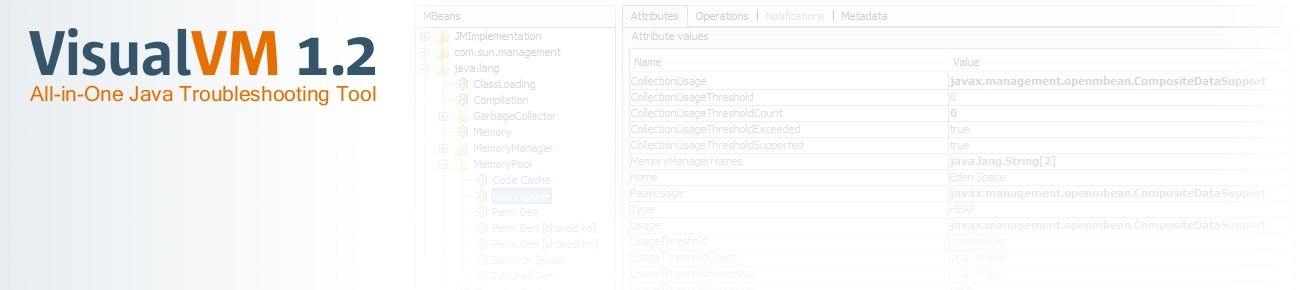
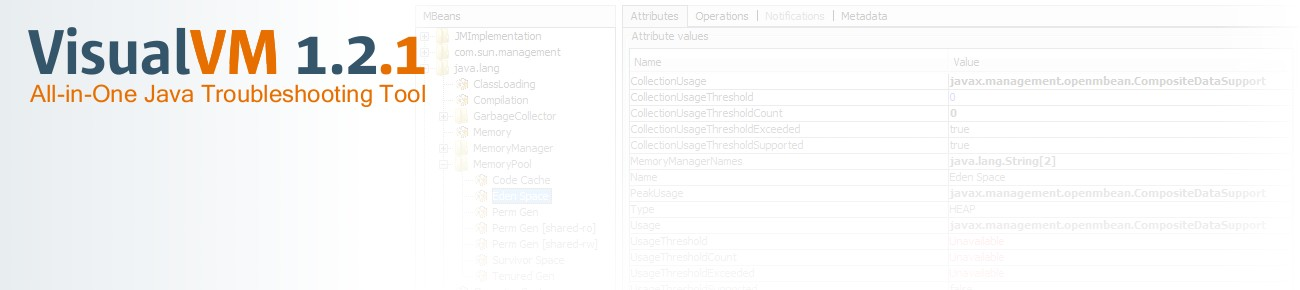
Releasing VisualVM 1.2.1

Changed region(s): [[0.0, 0.0931, 0.3385, 0.3724]]

diff --git a/trunk/www/relnotes12.html b/trunk/www/relnotes12.html
@@ -1,7 +1,7 @@
 <html>
 <head>
     
-    <title>VisualVM 1.2.1 Release Notes</title>
+    <title>VisualVM 1.2 Release Notes</title>
     
     <style>            
             
@@ -42,14 +42,14 @@
     <div id="contents_contents">
         <div id="contents_main">
             
-            <h1>VisualVM 1.2.1 Release Notes</h1>
+            <h1>VisualVM 1.2 Release Notes</h1>
             
             <p>
                 VisualVM is a visual tool integrating several commandline JDK tools and lightweight profiling capabilities. Designed for both production and development time use, it further enhances the capability of monitoring and performance analysis for the Java SE platform.
             </p>
             
             <p style="margin-bottom: 15px;">
-                VisualVM 1.2.1 is a bugfix release based on VisualVM 1.2. See the <a href="#changes">Changes In 1.2.1</a> section for list of changes and bugfixes since the VisualVM 1.2.
+                VisualVM 1.2 is a stable release following after VisualVM 1.1.1. See the <a href="#changes">Changes In 1.2</a> section for list of changes and bugfixes since the VisualVM 1.1.1.
                 See the <a href="releases.html">Releases Overview</a> page for detailed overview of all VisualVM and Java VisualVM releases.
             </p>
             
@@ -98,60 +98,8 @@
             </div>
             
             <a name="changes"></a>
-            <h3>Changes In 1.2.1</h3>
-            <div>                
-                <p style="margin-top: 5px; margin-bottom: 10px;">
-                    <b>Fixed bugs:</b><br>
-                    <ul>
-                        <li><a href="https://visualvm.dev.java.net/issues/show_bug.cgi?id=333">Issue 333</a>: HeapWalker in VisualVM doesn't work with JDK 6 Update 17+
-                        </li>
-
-                        <li><a href="https://visualvm.dev.java.net/issues/show_bug.cgi?id=327">Issue 327</a>: Maximum value in Monitor charts is Integer.MAX_VALUE
-                        </li>
-
-                        <li><a href="https://visualvm.dev.java.net/issues/show_bug.cgi?id=332">Issue 332</a>: NPE in VisualVM-Sampler
-                        </li>
-                    </ul>
-                </p>
-            </div>
-            
-            <a name="known_problems"></a>
-            <h3>Known Problems</h3>
-            <div>                
-                <ul>
-                    <li><a href="https://visualvm.dev.java.net/issues/show_bug.cgi?id=224">Issue 224</a>: Cannot memory profile JBoss AS 4.2.3.GA
-                    </li>
-
-                    <li><a href="https://visualvm.dev.java.net/issues/show_bug.cgi?id=148">Issue 148</a>: VisualVM hangs when lost remote connection
-                    </li>
-
-                    <li><a href="https://visualvm.dev.java.net/issues/show_bug.cgi?id=120">Issue 120</a>: JMX application datasource cannot be reused on application restart
-                    </li>
-                    
-                    <li><a href="https://visualvm.dev.java.net/issues/show_bug.cgi?id=72">Issue 72</a>: Running application sometimes not recognized
-                    </li>
-                </ul>
-
-                <p>
-                    <b>Warning:</b> due to a JDK bug taking heap dump may crash the target JVM if it's running JDK 6 Update 16+ using Concurrent Mark Sweep garbage collector (CMS). A workaround is to use a different GC (for example using <code>-XX:+UseParallelGC</code>). Similar problem seems to affect also the JDK 7 devbuilds.
-                </p>
-                
-                <p style="margin-bottom: 15px;">To view all known problems please use this <a href="https://visualvm.dev.java.net/issues/buglist.cgi?Submit+query=Submit+query&issue_type=DEFECT&component=visualvm&subcomponent=code&issue_status=NEW&issue_status=STARTED&issue_status=REOPENED&email1=&emailtype1=exact&emailassigned_to1=1&email2=&emailtype2=exact&emailreporter2=1&issueidtype=include&issue_id=&changedin=&votes=&chfieldfrom=&chfieldto=Now&chfieldvalue=&short_desc=&short_desc_type=fulltext&long_desc=&long_desc_type=fulltext&issue_file_loc=&issue_file_loc_type=fulltext&status_whiteboard=&status_whiteboard_type=fulltext&field0-0-0=noop&type0-0-0=noop&value0-0-0=&cmdtype=doit&newqueryname=&order=Reuse+same+sort+as+last+time">IssueTracker query</a>.
-                </p>
-            </div>
-
-            <br>
-            <hr>
-            <hr>
-            <br>
-            <br>
-
-            <a name="changeshistory"></a>
-            <h2>History of Changes</h2>
-            <br>
-
             <h3>Changes In 1.2</h3>
-            <div>
+            <div>                
                 <p style="margin-top: 5px;">
                     <b>Features and enhancements:</b><br>
                     <ul>
@@ -256,14 +204,55 @@
 
                         <li>Compatible: <code>com.sun.tools.visualvm.tools.jvmstat.JvmstatModel.getConnectionId()</code> added
                         </li>
-
+                        
                     </ul>
                 </p>
-
+                
                 <p style="margin-bottom: 10px;">
                     <b>Fixed bugs:</b> <a href="https://visualvm.dev.java.net/issues/buglist.cgi?Submit+query=Submit+query&issue_type=DEFECT&component=visualvm&resolution=FIXED&target_milestone=1.2&email1=&emailtype1=exact&emailassigned_to1=1&email2=&emailtype2=exact&emailreporter2=1&issueidtype=include&issue_id=&changedin=&votes=&chfield=creation_ts&chfieldfrom=&chfieldto=Now&chfieldvalue=&short_desc=&short_desc_type=fulltext&long_desc=&long_desc_type=fulltext&issue_file_loc=&issue_file_loc_type=fulltext&status_whiteboard=&status_whiteboard_type=fulltext&field0-0-0=noop&type0-0-0=noop&value0-0-0=&cmdtype=doit&order=Reuse+same+sort+as+last+time">IssueTracker query</a>.
                 </p>
             </div>
+            
+            <a name="known_problems"></a>
+            <h3>Known Problems</h3>
+            <div>                
+                <ul>
+                    <li><a href="https://visualvm.dev.java.net/issues/show_bug.cgi?id=333">Issue 333</a>: HeapWalker in VisualVM doesn't work with JDK 6 Update 17+
+                    </li>
+
+                    <li><a href="https://visualvm.dev.java.net/issues/show_bug.cgi?id=224">Issue 224</a>: Cannot memory profile JBoss AS 4.2.3.GA
+                    </li>
+
+                    <li><a href="https://visualvm.dev.java.net/issues/show_bug.cgi?id=148">Issue 148</a>: VisualVM hangs when lost remote connection
+                    </li>
+
+                    <li><a href="https://visualvm.dev.java.net/issues/show_bug.cgi?id=327">Issue 327</a>: Maximum value in Monitor charts is Integer.MAX_VALUE (hotfix <a href="https://visualvm.dev.java.net/issues/show_bug.cgi?id=327">available</a>)
+                    </li>
+
+                    <li><a href="https://visualvm.dev.java.net/issues/show_bug.cgi?id=120">Issue 120</a>: JMX application datasource cannot be reused on application restart
+                    </li>
+                    
+                    <li><a href="https://visualvm.dev.java.net/issues/show_bug.cgi?id=72">Issue 72</a>: Running application sometimes not recognized
+                    </li>
+                </ul>
+
+                <p>
+                    <b>Warning:</b> due to a JDK bug taking heap dump may crash the target JVM if it's running JDK 6 Update 16+ using Concurrent Mark Sweep garbage collector (CMS). A workaround is to use a different GC (for example using <code>-XX:+UseParallelGC</code>). Similar problem seems to affect also the JDK 7 devbuilds.
+                </p>
+                
+                <p style="margin-bottom: 15px;">To view all known problems please use this <a href="https://visualvm.dev.java.net/issues/buglist.cgi?Submit+query=Submit+query&issue_type=DEFECT&component=visualvm&subcomponent=code&issue_status=NEW&issue_status=STARTED&issue_status=REOPENED&email1=&emailtype1=exact&emailassigned_to1=1&email2=&emailtype2=exact&emailreporter2=1&issueidtype=include&issue_id=&changedin=&votes=&chfieldfrom=&chfieldto=Now&chfieldvalue=&short_desc=&short_desc_type=fulltext&long_desc=&long_desc_type=fulltext&issue_file_loc=&issue_file_loc_type=fulltext&status_whiteboard=&status_whiteboard_type=fulltext&field0-0-0=noop&type0-0-0=noop&value0-0-0=&cmdtype=doit&newqueryname=&order=Reuse+same+sort+as+last+time">IssueTracker query</a>.
+                </p>
+            </div>
+
+            <br>
+            <hr>
+            <hr>
+            <br>
+            <br>
+
+            <a name="changeshistory"></a>
+            <h2>History of Changes</h2>
+            <br>
 
             <h3>Changes In 1.1.1</h3>
             <div>
@@ -394,7 +383,7 @@
         <h3 class="first">On This Page</h3>
         <div>
             <a href="#system_requirements">System Requirements</a>
-            <a href="#changes">Changes In 1.2.1</a>
+            <a href="#changes">Changes In 1.2</a>
             <a href="#known_problems">Known Problems</a>
             <a href="#changeshistory">History of Changes</a>
         </div>

diff --git a/trunk/www/index.html b/trunk/www/index.html
@@ -50,6 +50,11 @@
             <div id="news" style="margin-bottom: 10px;">
                 <!-- Please always display 3 items here. The item to be removed should be archived on news.html -->
 
+                <p><span class="news_date">November 9th, 2009:</span> VisualVM 1.2.1 released. This is purely a bugfix release, see the <a href="https://visualvm.dev.java.net/issues/buglist.cgi?Submit+query=Submit+query&component=visualvm&resolution=FIXED&target_milestone=1.2.1&email1=&emailtype1=exact&emailassigned_to1=1&email2=&emailtype2=exact&emailreporter2=1&issueidtype=include&issue_id=&changedin=&votes=&chfield=creation_ts&chfieldfrom=&chfieldto=Now&chfieldvalue=&short_desc=&short_desc_type=fulltext&long_desc=&long_desc_type=fulltext&issue_file_loc=&issue_file_loc_type=fulltext&status_whiteboard=&status_whiteboard_type=fulltext&field0-0-0=noop&type0-0-0=noop&value0-0-0=&cmdtype=doit&order=Reuse+same+sort+as+last+time">list of fixed bugs</a>.
+                    The tool can be downloaded from the <a href="download.html">Download</a> page, sources are available in
+                    <a href="https://visualvm.dev.java.net/source/browse/visualvm/visualvm/?only_with_tag=release121"><code>release121</code></a> branch.
+                </p>
+
                 <p><span class="news_date">October 21st, 2009:</span> VisualVM 1.2 released. It introduces many new features
                     incl. sampling profiler, redesigned charts, enhanced <code>jstatd</code> support and customizable proxy settings.
                     The tool can be downloaded from the <a href="download.html">Download</a> page, sources are available in
@@ -64,11 +69,6 @@
                     <a href="mailto:feedback@visualvm.dev.java.net?subject=VisualVM 1.2 Test Build Feedback">feedback@visualvm.dev.java.net</a>
                     or <a href="https://visualvm.dev.java.net/issues/enter_bug.cgi?issue_type=DEFECT">file a bug report</a> into
                     the Issue Tracker (dev.java.net login is required).
-                </p>
-
-                <p><span class="news_date">August 13th, 2009:</span> Java VisualVM Blogging Contest results have been
-                    announced at <a href="http://java.sun.com/community/javavisualvm">http://java.sun.com/community/javavisualvm</a>.
-                    Congratulations to the winners and thanks to all participants!
                 </p>
 
                 <p class="previous_link"><a href="news.html">news archive</a>

diff --git a/trunk/www/build/build12.html b/trunk/www/build/build12.html
@@ -1,23 +1,15 @@
 <html>
 <head>
-<title>Build guide for VisualVM 1.2.1</title>
+<title>Build guide for VisualVM 1.2</title>
 <meta http-equiv="Content-Type" content="text/html; charset=iso-8859-1">
 </head>
 <body>
 <p>
-Build instructions for latest stable version <b>VisualVM 1.2.1</b>. If you want to build different version use links below:
-<ul>
-    <li><a href="build/build.html">trunk</a></li>
-    <li><a href="build/build12.html">VisualVM 1.2</a></li>
-    <li><a href="build/build111.html">VisualVM 1.1.1</a></li>
-    <li><a href="build/build11.html">VisualVM 1.1</a></li>
-    <li><a href="build/build101.html">VisualVM 1.0.1</a></li>
-    <li><a href="build/build10.html">VisualVM 1.0</a></li>
-</ul>
+Build instructions for <b>VisualVM 1.2</b>.
 Check out source code with a CVS client using the following command. Note: replace <code>username</code> with your own username.<br>
 <code>cvs -d :pserver:username@cvs.dev.java.net:/cvs login</code><br>
 followed by<br>
-<code> cvs -d :pserver:username@cvs.dev.java.net:/cvs checkout -r release121 -P visualvm</code><br>
+<code> cvs -d :pserver:username@cvs.dev.java.net:/cvs checkout -r release12 -P visualvm</code><br>
 </p>
 
 <p>There are two suites:</p>
@@ -26,7 +18,7 @@ followed by<br>
 <li><b>plugins</b>: which contains the plugins available in the VisualVM Plugin Center.</li>
 </ul>
 
-<p>The layout in <a href="https://visualvm.dev.java.net/source/browse/visualvm/?only_with_tag=release121">CVS</a> for VisualVM 1.2.1 release is:</p>
+<p>The layout in <a href="https://visualvm.dev.java.net/source/browse/visualvm/?only_with_tag=release12">CVS</a> for VisualVM 1.2 release is:</p>
 <ul>
     <li>visualvm
         <ul>
@@ -38,7 +30,7 @@ followed by<br>
 </ul>
 <p>
 To build the visualvm core tool you need the NetBeans 6.7.1 platform and profiler binaries available
-<a href="https://visualvm.dev.java.net/files/documents/7163/145163/nb671_visualvm_09112009.zip">here</a>.
+<a href="https://visualvm.dev.java.net/files/documents/7163/144394/nb671_visualvm_20102009.zip">here</a>.
 These binaries must be extracted into the visualvm/visualvm directory. You can use <code>ant run</code>
 or <code>ant build-zip</code> to build or run VisualVM.
 </p>

diff --git a/trunk/www/download.html b/trunk/www/download.html
@@ -54,8 +54,8 @@
             <a name="download"></a>
             <h3>Download</h3>
             <div style="background: #f0f1f2; padding: 10px; padding-left: 20px; margin-bottom: 10px;">
-                <div><a href="https://visualvm.dev.java.net/files/documents/7163/144406/visualvm_12.zip"><span style="font-size: 14px; font-weight: bold;">VisualVM 1.2</span></a> (.zip, 9.9MB)<span style="margin-left: 15px; margin-right: 15px;">|</span>IDE integration: <a href="eclipse-launcher.html">Eclipse IDE</a>, <a href="http://plugins.intellij.net/plugin/?id=3749">IntelliJ IDEA</a> <small>(3<sup>rd</sup> party)</small></div>
-                <div style="padding-top: 5px;"><small><a href="https://visualvm.dev.java.net/files/documents/7163/144407/visualvm_12-ml.zip"><b>Multi-language</b></a> (.zip, 11.6MB, English / Japanese <img src="ja/images/japanese.png" style="border: 0px; vertical-align: bottom;"/> / Chinese <img src="zh_CN/images/simplified_chinese.png" style="border: 0px; vertical-align: bottom;"/>)</small></div>
+                <div><a href="https://visualvm.dev.java.net/files/documents/7163/144406/visualvm_121.zip"><span style="font-size: 14px; font-weight: bold;">VisualVM 1.2.1</span></a> (.zip, 9.9MB)<span style="margin-left: 15px; margin-right: 15px;">|</span>IDE integration: <a href="eclipse-launcher.html">Eclipse IDE</a>, <a href="http://plugins.intellij.net/plugin/?id=3749">IntelliJ IDEA</a> <small>(3<sup>rd</sup> party)</small></div>
+                <div style="padding-top: 5px;"><small><a href="https://visualvm.dev.java.net/files/documents/7163/144407/visualvm_121-ml.zip"><b>Multi-language</b></a> (.zip, 11.6MB, English / Japanese <img src="ja/images/japanese.png" style="border: 0px; vertical-align: bottom;"/> / Chinese <img src="zh_CN/images/simplified_chinese.png" style="border: 0px; vertical-align: bottom;"/>)</small></div>
             </div>
             
             <a style="clear: both;" name="first_steps"></a>

diff --git a/trunk/www/releases.html b/trunk/www/releases.html
@@ -79,11 +79,21 @@
                         <tr><th><b>VisualVM</b></th><th><b>Corresponding Java&nbsp;VisualVM<br></b></th></tr>
                         <tr>
                             <td>
-                                <div><b>VisualVM 1.2</b><br><small style="margin-left: 10px;">Released: October 21st, 2009, <a href="relnotes.html">Release Notes</a></small></div>
+                                <div><b>VisualVM 1.2.1</b><br><small style="margin-left: 10px;">Released: November 9th, 2009, <a href="relnotes.html">Release Notes</a></small></div>
                             </td>
 
                             <td>
                                 <div>not released yet</div>
+                            </td>
+                        </tr>
+
+                        <tr>
+                            <td>
+                                <div><b>VisualVM 1.2</b><br><small style="margin-left: 10px;">Released: October 21st, 2009, <a href="relnotes12.html">Release Notes</a></small></div>
+                            </td>
+
+                            <td>
+                                <div>not released</div>
                             </td>
                         </tr>
 

diff --git a/trunk/www/news.html b/trunk/www/news.html
@@ -72,6 +72,11 @@
             <h3>News</h3>
             <div id="news">
 
+                <p><span class="news_date">August 13th, 2009:</span> Java VisualVM Blogging Contest results have been
+                    announced at <a href="http://java.sun.com/community/javavisualvm">http://java.sun.com/community/javavisualvm</a>.
+                    Congratulations to the winners and thanks to all participants!
+                </p>
+
                 <p><span class="news_date">June 23rd, 2009:</span> The Buffer Monitor plugin
                     has been released on VisualVM 1.1.1 Plugin Center. The plugin enables
                     monitoring usage of direct buffers created by <code>ByteBuffer.allocateDirect</code>

diff --git a/trunk/www/troubleshooting.html b/trunk/www/troubleshooting.html
@@ -46,7 +46,7 @@
     <div id="contents_contents">
         <div id="contents_main">
             
-            <h1>VisualVM 1.2 Troubleshooting Guide</h1>
+            <h1>VisualVM 1.2.1 Troubleshooting Guide</h1>
             
             <p style="margin-bottom: 15px;">
                 This document describes the most common problems related to using VisualVM and information on how to fix or workaround the problems.
